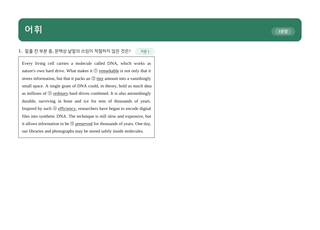
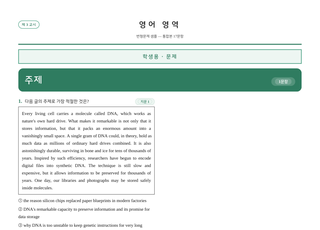
07 라인업 썸네일을 학생용 첫 쪽으로

Changed region(s): [[0.0312, 0.0609, 0.9688, 1.0]]

diff --git a/brand/catalog.py b/brand/catalog.py
@@ -509,13 +509,15 @@ MATERIALS: list[Item] = [
         who=["문제집은 다 맞히는데 학교 시험만 틀리는 학생",
              "학생이 소거법으로 다 맞혀 버려 답답했던 선생님",
              "편집할 시간 없이 내일 수업에 넣어야 하는 선생님"],
-        sample="variation.png",
-        sample_note="1회 학생용 — 한 지문에 어법·어휘·주제·내용 일치·순서·삽입이 이어집니다.",
+        # 목록 썸네일은 첫 쪽. 어휘 지면은 작게 줄이면 밑줄만 보여 무슨 자료인지
+        # 안 읽힌다. 시험지 머리와 '학생용 · 문제'가 있는 쪽이 한눈에 통한다.
+        sample="variation-cover.png",
+        sample_note="학생용 첫 쪽 — 시험지 머리 아래로 유형이 한 문항씩 이어집니다.",
         extra=[
             ("variation-teacher.png", "교사용 — 같은 문제에 정답과 해설이 함께 찍혀 있습니다."),
             ("variation-answer.png", "해설 — 선지마다 왜 오답인지를 갈래로 밝힙니다."),
-            ("variation-r2.png", "2회 — 빈칸·함축·요약을 모은 고난도 세트."),
-            ("variation-r3.png", "3회 — 한 유형을 여러 지문으로. 주제만, 제목만 연달아 풉니다."),
+            ("variation-gramwrite.png", "어법 서술형 — 틀린 것 넷을 찾아 바르게 고쳐 씁니다."),
+            ("variation-oxen.png", "내용 O/X (영어) — 진술을 영어로 준 판."),
             ("variation-quick.png", "빠른 정답 — 해설 없이 정답만. 채점용."),
         ],
     ),

diff --git a/brand/pdf_samples.py b/brand/pdf_samples.py
@@ -112,6 +112,7 @@ SHOTS = [
     Shot("workbook.png", 12, head=["내신 서술형"], keep=0.86),
 
     # 변형문제 — 1회 문제 · 교사용 · 해설 · 2회 · 3회 · 빠른정답
+    Shot("variation-cover.png", 0, **VAR, keep=0.86),      # 첫 쪽 — 학생용 문제
     Shot("variation.png", 8, **VAR, keep=0.86),            # 어휘 — 원문형
     Shot("variation-gram.png", 5, **VAR, keep=0.86),       # 어법 모두 고르기
     Shot("variation-gramwrite.png", 6, **VAR, keep=0.86),  # 어법 서술형

diff --git a/brand/posts/07-variation.md b/brand/posts/07-variation.md
@@ -45,10 +45,10 @@
 
 ## 실제 자료 예시
 
-![](samples/variation.png)
-<!-- 이미지: brand/assets/samples/variation.png -->
+![](samples/variation-cover.png)
+<!-- 이미지: brand/assets/samples/variation-cover.png -->
 
-1회 학생용 — 한 지문에 어법·어휘·주제·내용 일치·순서·삽입이 이어집니다.
+학생용 첫 쪽 — 시험지 머리 아래로 유형이 한 문항씩 이어집니다.
 
 <!-- ▼ 직접 채울 곳 (VOICE.md §4) ─────────────────────────────
    · 이 자료를 만들게 된 계기가 된 구체적인 순간 한 문단
